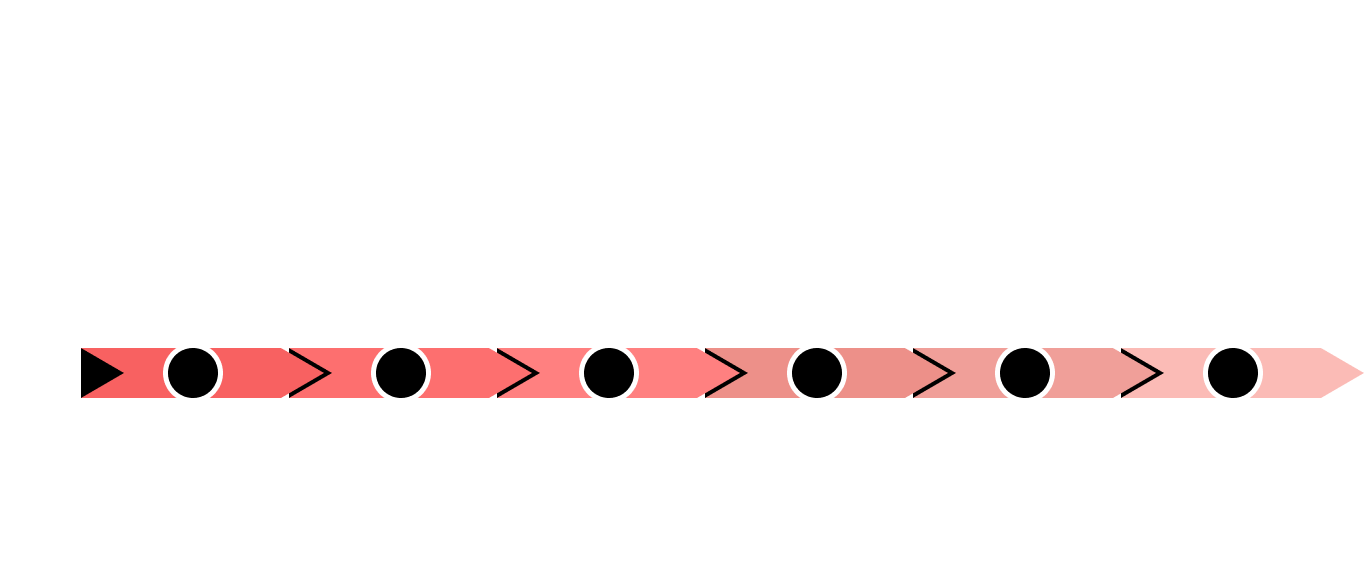
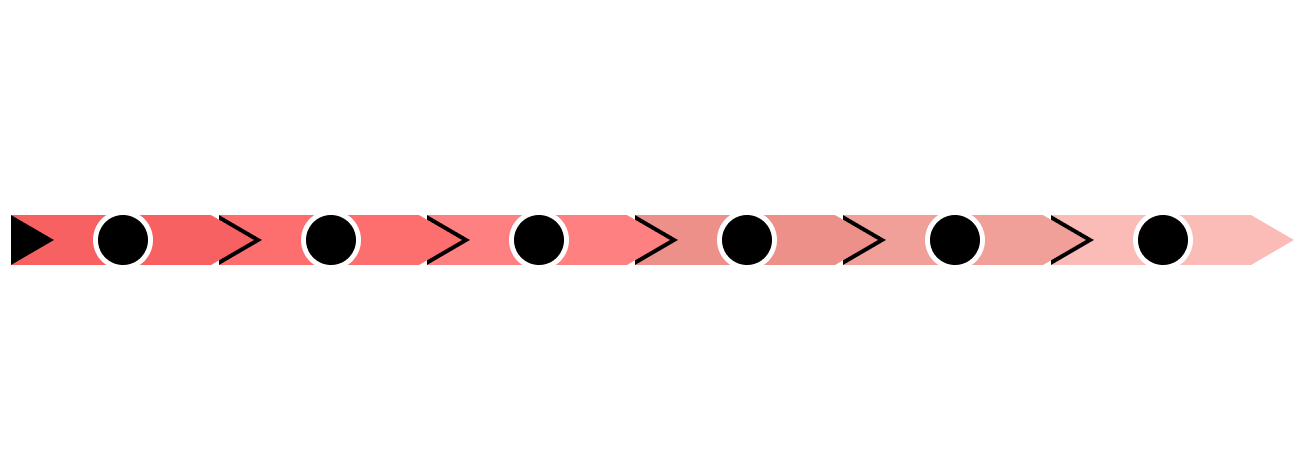
Atualizações no Site

Changed region(s): [[0.0, 0.4677, 1.0, 0.686]]

diff --git a/pages/quemsomos.html b/pages/quemsomos.html
@@ -16,6 +16,7 @@
     <link rel="stylesheet" href="../css/quemsomos/nossahist.css">
     <link rel="stylesheet" href="../css/quemsomos/nossasconquistas/nossasconquistas.css">
     <link rel="stylesheet" href="../css/quemsomos/nossasconquistas/style.css">
+    <link rel="stylesheet" href="../css/quemsomos/Mapa/mapa.css">
     
     <script src="https://kit.fontawesome.com/b3cdcbfbcc.js" crossorigin="anonymous"></script>
     <title>QUEM SOMOS</title>
@@ -63,7 +64,11 @@
 
 
         <section class="nossahist">
-            <h2>NOSSA HISTÓRIA</h2>
+            <div class="tempo-title">
+                <h2 class="timeline-title">NOSSA HISTÓRIA</h2>
+                <img src="../img/quem-somos/Nossa História.png" alt="Linha">
+            </div>
+            <img src="../img/quem-somos/linha-do-tempo.png" alt="Linha do Tempo" class="timeline">
         </section>
         
         <section class="misvival">
@@ -112,8 +117,37 @@
         </section>
 
 
-        <section class="nossasloj">
-            <h2>NOSSAS LOJAS</h2>
+        <section class="nossaslojas">
+            <div class="lojasnossas">
+                <h2 class="lojas-nossas-titulo">NOSSAS LOJAS</h2>
+                <img src="../img/Mapa/Nossas Lojas.png" alt="" class="traco-nossas-lojas">
+            </div>
+            <div class="map-content">
+                <div class="mapa">
+                    <img src="../img/Mapa/Barueri-Alphaville.png" alt="Empresa 4 - Empresa em Alphaville" class="ba filial">
+                    <img src="../img/Mapa/Belo Horizonte.png" alt="Empresa 8 - Empresa em Belo Horizonte" class="bh filial">
+                    <img src="../img/Mapa/Cruzeiro do Sul - AC.png" alt="Empresa 2 - Empresa em Cruzeiro do Sul" class="cs filial">
+                    <img src="../img/Mapa/Cuiabá.png" alt="Empresa 10 - Empresa em Cuiabá" class="cu filial">
+                    <img src="../img/Mapa/Fortaleza.png" alt="Empresa 6 - Empresa em Fortaleza" class="fo filial">
+                    <img src="../img/Mapa/Goiania.png" alt="Empresa 9 - Empresa em Goiânia" class="go filial">
+                    <img src="../img/Mapa/Palmas.png" alt="Empresa 5 - Empresa em Palmas" class="pl filial">
+                    <img src="../img/Mapa/Porto Alegre.png" alt="Empresa 1 - Empresa em Porto Alegre" class="pa filial">
+                    <img src="../img/Mapa/Salvador.png" alt="Empresa 3 - Empresa em Salvador" class="sa filial">
+                    <img src="../img/Mapa/São Paulo.png" alt="Empresa 7 - Empresa em São Paulo" class="sp filial">
+                </div>
+                <div class="locais">
+                    <div class="escritmapa">
+                        <h3 class="tiescritorio">Uma de nossas filiais</h3>
+                        <img src="../img/Mapa/escritório2.jpg" alt="Uma de nossas lojas" class="escritorio">
+                    </div>
+                </div>
+                <div class="teste">
+                    <div class="goias">
+                        <!-- <img src="../img/Mapa/Goiania.png" alt="Empresa 9 - Empresa em Goiânia" class="go">
+                        <h3 class="GO loja">Loja 9, Goiânia, GO</h3> -->
+                    </div>
+                </div>
+            </div>
         </section>
 
 

diff --git a/pages/vagas.html b/pages/vagas.html
@@ -1,5 +1,5 @@
 <!DOCTYPE html>
-<html lang="en">
+<html lang="pt-BR">
 <head>
     <meta charset="UTF-8">
     <meta name="viewport" content="width=device-width, initial-scale=1.0">
@@ -57,25 +57,25 @@
         </section>
         <section class="jobs-container">
             <div class="left">
-                <a href="../assets/Assistente de Contabilidade.pdf" class="saiba-mais" download>
+                <a href="../download/Assistente de Contabilidade.pdf" class="saiba-mais" download target="_blank">
                     Assistente de Contabilidade
                     <p class="more">Saiba Mais &rightarrow;</p>
                 </a>
-                <a href="../assets/Auxiliar Administratativo.pdf" class="saiba-mais" download>
+                <a href="../download/Auxiliar Administratativo.pdf" class="saiba-mais" download target="_blank">
                     Auxiliar Administrativo
                     <p class="more">Saiba Mais &rightarrow;</p>
                 </a>
-                <a href="../assets/Jovem Aprendiz Administrativo.pdf" class="saiba-mais" download>
+                <a href="../download/Jovem Aprendiz Administrativo.pdf" class="saiba-mais" download target="_blank">
                     Jovem Aprendiz Administrativo
                     <p class="more">Saiba Mais &rightarrow;</p>
                 </a>
             </div>
             <div class="right">
-                <a href="../assets/Assistente de marketing.pdf" class="saiba-mais" download>
+                <a href="../download/Assistente de marketing.pdf" class="saiba-mais" download target="_blank">
                     Assistente de Marketing
                     <p class="more">&leftarrow; Saiba Mais</p>
                 </a>
-                <a href="../assets/Gerente de produção.pdf" class="saiba-mais" download>
+                <a href="../download/Gerente de produção.pdf" class="saiba-mais" download target="_blank">
                     Gerente de Produção
                     <p class="more">&leftarrow; Saiba Mais;</p>
                 </a>

diff --git a/css/quemsomos/Mapa/mapa.css b/css/quemsomos/Mapa/mapa.css
@@ -1,0 +1,76 @@
+.nossaslojas{
+    height: 90vh;
+    display: flex;
+    align-items: flex-end;
+    justify-content: center;
+    flex-direction: column;
+    gap: 60px;
+}
+
+.map-content{
+    display: flex;
+    align-items: center;
+    justify-content: center;
+    gap: 60px;
+    width: 220vh;
+}
+.mapa{
+    background: url(../../../img/Mapa/Brasil.png);
+    height: 609.97px;
+    width: 600px;
+    border: 7px solid var(--claro);
+    border-radius: 25px;
+    gap: 20px;
+}
+
+.escritorio{
+    width: 97%;
+}
+.lojasnossas{
+    display: flex;
+    flex-direction: column;
+    align-items: flex-start;
+
+}
+
+.locais{
+    display: flex;
+    flex-direction: column;
+    align-items: center;
+    gap: 100px;
+}
+
+.lojasnossas{
+    color: #FFF;
+    font-size: 4rem;
+}
+
+.traco-nossas-lojas{
+    width: 1000px;
+}
+
+.tiescritorio{
+    padding-top: 5px;
+    font-size: 2rem;
+    color: #FFF;
+}
+
+.escritmapa{
+    height: 300px;
+    width: 500px;
+    background-color: var(--escuro);
+    display: flex;
+    flex-direction: column;
+    align-items: center;
+    gap:20px;
+}
+
+
+.filial:hover .locais{
+    height: 300px;
+    width: 500px;
+    background-color: var(--escuro);
+    display: flex;
+    flex-direction: column;
+    align-items: center;
+}

diff --git a/css/quemsomos/nossahist.css b/css/quemsomos/nossahist.css
@@ -2,8 +2,24 @@
     background-image: url(../../img/quem-somos/bg-nossahist.png);
     background-repeat: no-repeat;
     background-size: cover;
+    display: flex;
+    flex-direction: column;
+    align-items: center;
+    justify-content: center;
+    gap: 60px;
 }
 
-.titulo{
-    color: aliceblue;
+.tempo-title{
+    color: #fff;
+    align-self: flex-start;
+    display: flex;
+    flex-direction: column;
+    align-items: flex-end;
+}
+.timeline-title{
+    font-size: 4rem;
+}
+.timeline{
+    height: 550px;
+    width: 1500px;
 }

diff --git a/css/impactos/camilah.css b/css/impactos/camilah.css
@@ -1,9 +1,10 @@
 .camilahS{
+    height: 10vh;
     display: flex;
     flex-direction: row-reverse;
     align-items: center;
-    padding: 500px 57px;
-    gap: 65px;
+    padding: 390px 57px;
+    gap: 70px;
     font-family: 'Mulish', sans-serif;
 }
 
@@ -11,7 +12,7 @@
     display: flex;
     flex-direction: column-reverse;
     justify-content: flex-start;
-    gap: 53px;
+    gap: 50px;
     padding: 75px;
 }
 .camilah-name-container{

diff --git a/css/quemsomos/quemsomos.css b/css/quemsomos/quemsomos.css
@@ -26,7 +26,7 @@ section{
     flex-direction: row;
     align-items: center;
     padding: 0 57px;
-    gap: 443px;
+    gap: 343px;
 }
 
 .titulo{
@@ -71,9 +71,10 @@ section{
 video{
     display: flex;
     align-items: flex-start;
+    transition: all .5s;
+    border-left: 10px solid #0000;
 }
 
 video:hover{
     border-left: 10px solid var(--escuro);
-    transition: all .5s;
 }

diff --git a/css/impactos/page.css b/css/impactos/page.css
@@ -3,12 +3,6 @@ body{
     display: flex;
     flex-direction: column;
 }
-
-footer{
-    position: relative;
-    bottom: 50px;
-    left: 50px;
-}
 main{
     flex-grow: 1;
     display: flex;
@@ -16,11 +10,6 @@ main{
 }
 section{
     height: 50vh;
-}
-
-.imagem-lado-direito{
-    display: flex;
-    justify-content: flex-end;
 }
 
 h2{

diff --git a/css/quemsomos/missão-visão-valores/missao-visao-valores.css b/css/quemsomos/missão-visão-valores/missao-visao-valores.css
@@ -45,10 +45,10 @@
     padding: 17px 3px;
     font-weight: 700;
     font-family: 'Mulish', sans-serif;
+    transition: all .6s;
 }
 
 .informacaoMVV:hover{
     background-color: var(--escuro);
-    transition: all 2s ;
 }
 

diff --git a/css/impactos/leo.css b/css/impactos/leo.css
@@ -2,8 +2,7 @@
     display: flex;
     flex-direction: row-reverse;
     align-items: center;
-    padding: 500px 57px;
-    gap: 0px;
+    padding: 390px 57px;
     font-family: 'Mulish', sans-serif;
 }
 

diff --git a/css/impactos/luiza.css b/css/impactos/luiza.css
@@ -2,8 +2,7 @@
     display: flex;
     flex-direction: row;
     align-items: center;
-    padding: 500px 57px;
-    gap: 10px;
+    padding: 450px 57px;
     font-family: 'Mulish', sans-serif;
 }
 

diff --git a/css/impactos/ana-alice.css b/css/impactos/ana-alice.css
@@ -2,8 +2,7 @@
     display: flex;
     flex-direction: row;
     align-items: center;
-    padding: 30px 57px;
-    gap: 0px;
+    padding: 390px 57px;
     font-family: 'Mulish', sans-serif;
 }
 

diff --git a/pages/carreiras.html b/pages/carreiras.html
@@ -1,5 +1,5 @@
 <!DOCTYPE html>
-<html lang="en">
+<html lang="pt-BR">
 <head>
     <meta charset="UTF-8">
     <meta name="viewport" content="width=device-width, initial-scale=1.0">
